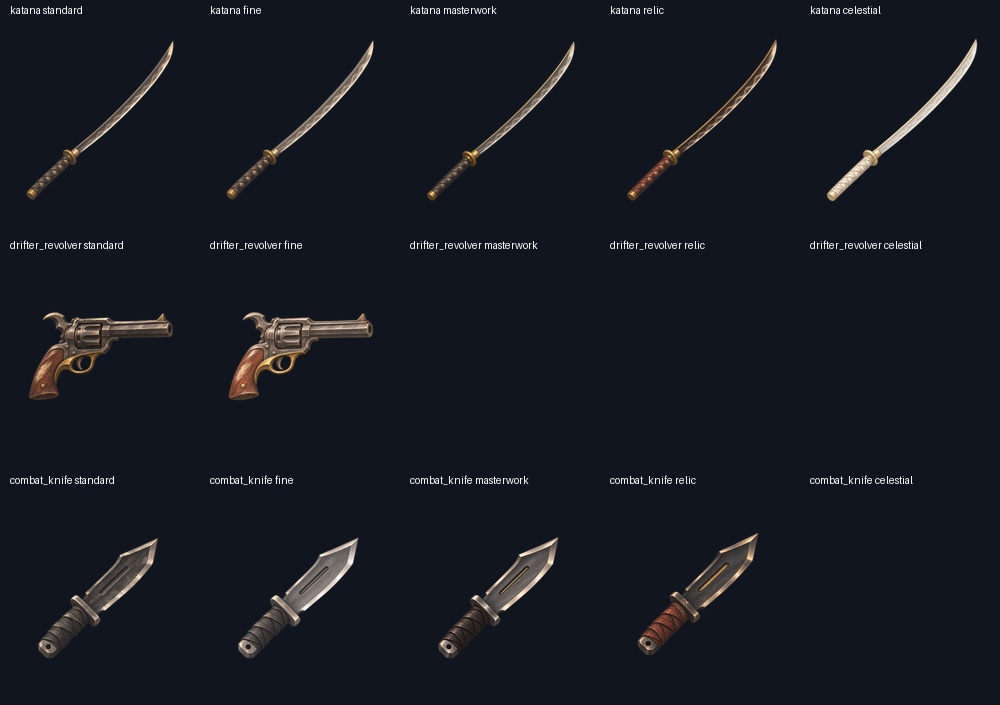
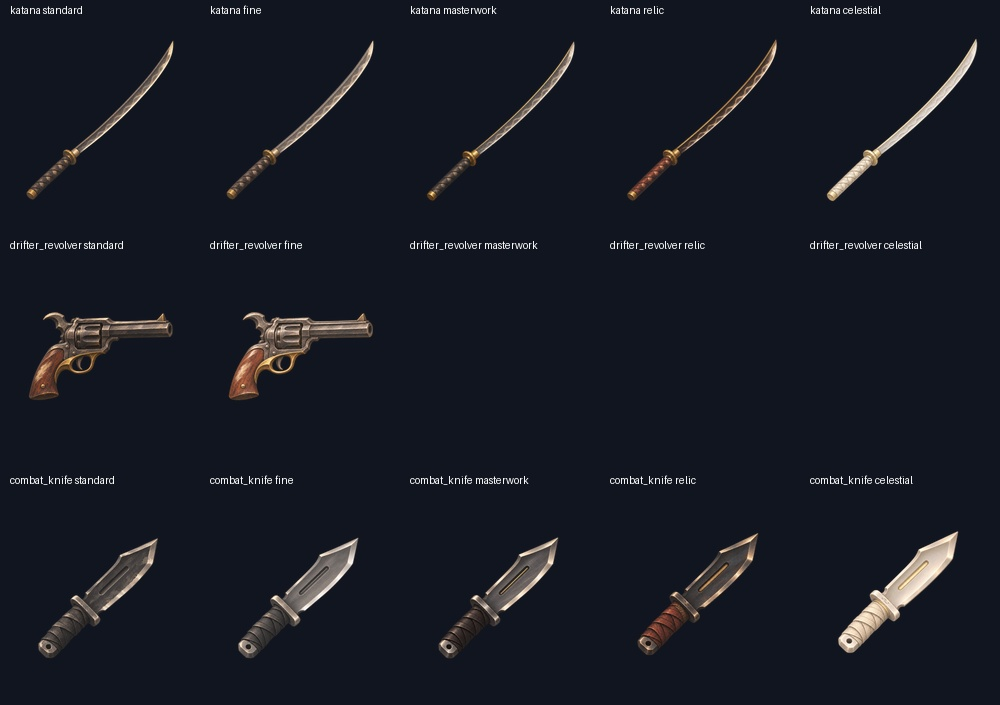
Archive combat_knife celestial grade proof

Changed region(s): [[0.837, 0.7489, 0.961, 0.9362]]

diff --git a/art/_archive/prompt-pack/2026-11-19-file-08/PROGRESS.md b/art/_archive/prompt-pack/2026-11-19-file-08/PROGRESS.md
@@ -1,5 +1,5 @@
 # Grade proof progress
 
-10 archived PNG attempts, including earlier Fine trials. The composite shows the current candidate for each finish.
+11 archived PNG attempts, including earlier Fine trials. The composite shows the current candidate for each finish.
 
 [Proof progress](review/complete-proof-progress.jpg)
